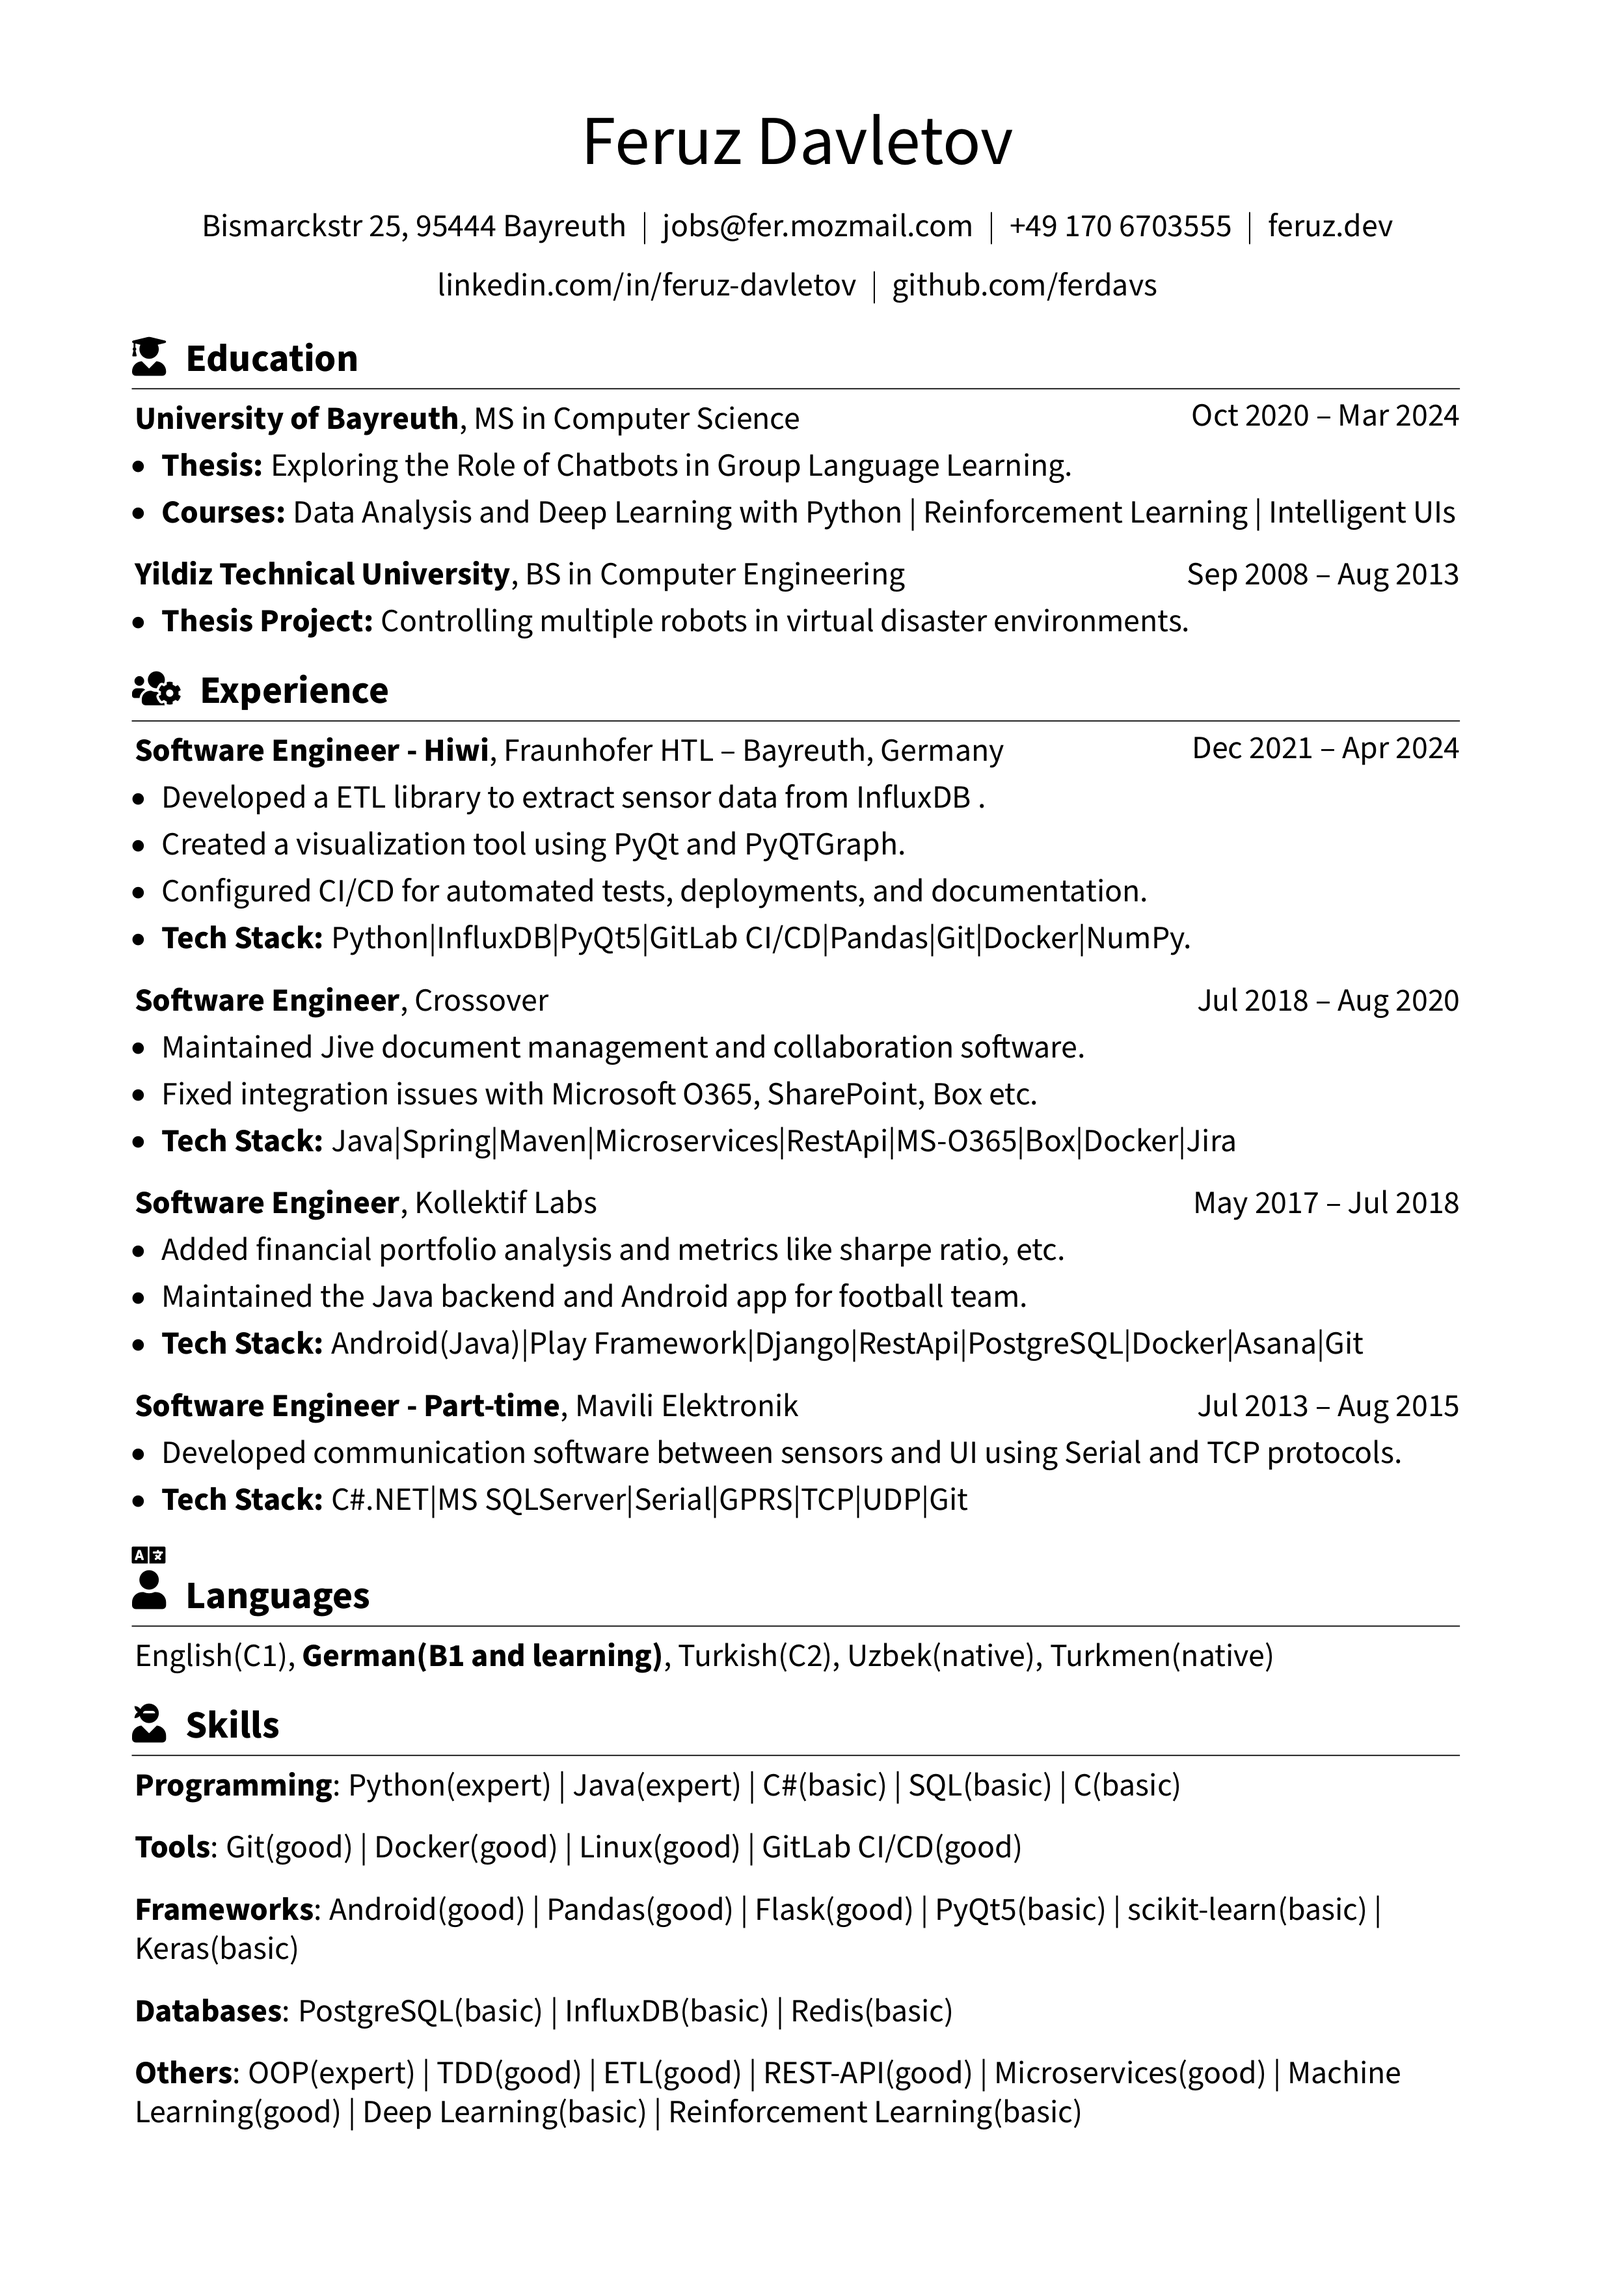
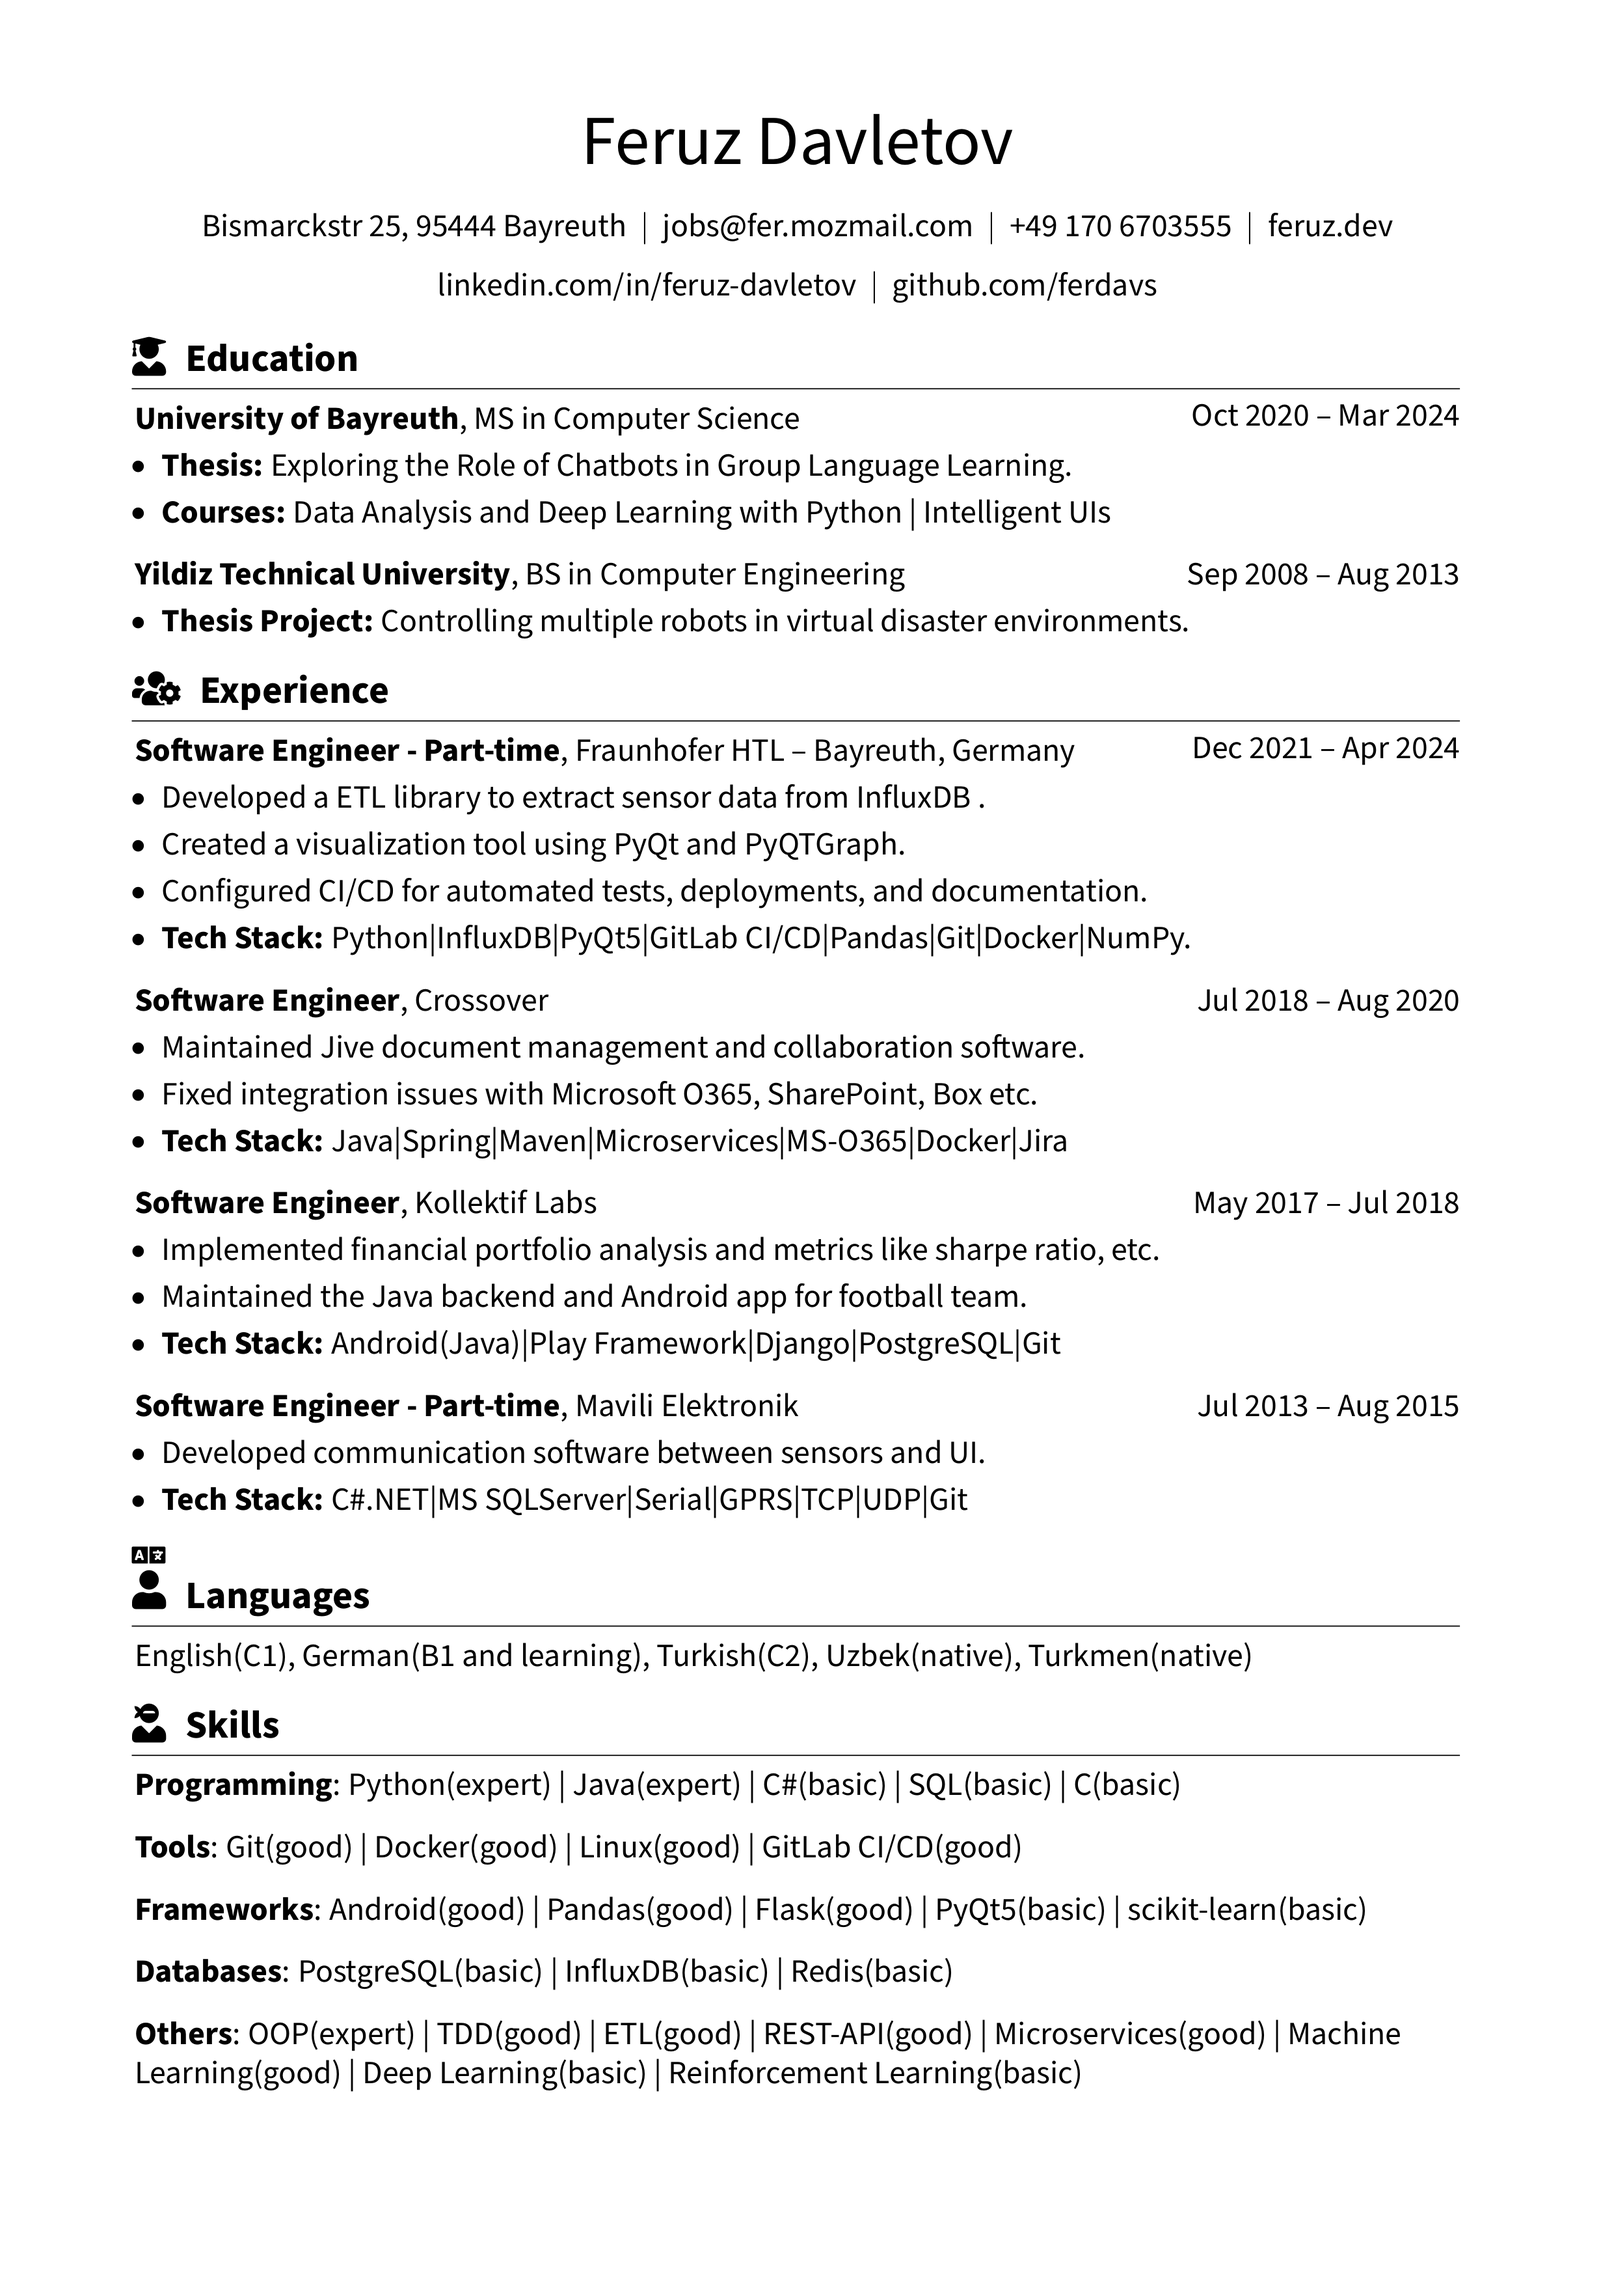
cv: update readme

diff --git a/README.md b/README.md
@@ -12,20 +12,20 @@
 
 ## University of Bayreuth, MS in Computer Science
 
-- Oct 2020 -- Mar 2024
+- Oct 2020 – Mar 2024
 - **Thesis:** Exploring the Role of Chatbots in Group Language Learning.
-- **Courses:** Data Analysis and Deep Learning with Python | Reinforcement Learning | Intelligent UIs
+- **Courses:** Data Analysis and Deep Learning with Python | Intelligent UIs
 
 ## Yildiz Technical University, BS in Computer Engineering
 
-- Sep 2008 -- Aug 2013
+- Sep 2008 – Aug 2013
 - **Thesis Project:** Controlling multiple robots in virtual disaster environments.
 
 # \faUsersCog\enspace  Experience
 
-## Fraunhofer HTL, Software Engineer - Hiwi
+## Fraunhofer HTL, Software Engineer - Part-time
 
-- Dec 2021 -- Apr 2024
+- Dec 2021 – Apr 2024
 - Bayreuth, Germany
 - Developed a ETL library to extract sensor data from InfluxDB .
 - Created a visualization tool using PyQt and PyQTGraph.
@@ -34,27 +34,27 @@
 
 ## Crossover, Software Engineer
 
-- Jul 2018 -- Aug 2020
+- Jul 2018 – Aug 2020
 - Maintained Jive document management and collaboration software.
 - Fixed integration issues with Microsoft O365, SharePoint, Box etc.
-- **Tech Stack:** Java|Spring|Maven|Microservices|RestApi|MS-O365|Box|Docker|Jira
+- **Tech Stack:** Java|Spring|Maven|Microservices|MS-O365|Docker|Jira
 
 ## Kollektif Labs, Software Engineer
 
-- May 2017 -- Jul 2018
-- Added financial portfolio analysis and metrics like sharpe ratio, etc.
+- May 2017 – Jul 2018
+- Implemented financial portfolio analysis and metrics like sharpe ratio, etc.
 - Maintained the Java backend and Android app for football team.
-- **Tech Stack:** Android(Java)|Play Framework|Django|RestApi|PostgreSQL|Docker|Asana|Git
+- **Tech Stack:** Android(Java)|Play Framework|Django|PostgreSQL|Git
 
 ## Mavili Elektronik, Software Engineer - Part-time
 
-- Jul 2013 -- Aug 2015
-- Developed communication software between sensors and UI using Serial and TCP protocols.
+- Jul 2013 – Aug 2015
+- Developed communication software between sensors and UI.
 - **Tech Stack:** C#.NET|MS SQLServer|Serial|GPRS|TCP|UDP|Git
 
 # $\overset{\text{\faLanguage}}{\text{\raisebox{0.1em}{\faUser}}}$\enspace Languages
 
-English(C1), **German(B1 and learning)**, Turkish(C2), Uzbek(native), Turkmen(native)
+English(C1), German(B1 and learning), Turkish(C2), Uzbek(native), Turkmen(native)
 
 # \faUserNinja\enspace Skills
 
@@ -62,32 +62,32 @@ English(C1), **German(B1 and learning)**, Turkish(C2), Uzbek(native), Turkmen(na
 
 **Tools**: Git(good) | Docker(good) | Linux(good) | GitLab CI/CD(good)
 
-**Frameworks**: Android(good) | Pandas(good) | Flask(good) | PyQt5(basic) | scikit-learn(basic) | Keras(basic)
+**Frameworks**: Android(good) | Pandas(good) | Flask(good) | PyQt5(basic) | scikit-learn(basic)
 
 **Databases**: PostgreSQL(basic) | InfluxDB(basic) | Redis(basic)
 
 **Others**: OOP(expert) | TDD(good) | ETL(good) | REST-API(good) | Microservices(good) | Machine Learning(good) | Deep Learning(basic) | Reinforcement Learning(basic)
 
-# \faUserCog\enspace  Projects
+# \faUserCog\enspace Last Projects
 
 ## Energy Usage Prediction of Household Devices with Energy Meters
 
 - Sep 2023
 - Created system and software architecture for the project.
 - Developed a backend service to collect energy usage data from energy meters.
-- Developed an android app and a predictive model to visualize energy usage and predictions.
+- Developed an android app and a predictive model to visualize energy usage.
 - **Tech Stack:** Android(Java)|Python|PostgreSQL|NumPy|Pandas|Tuya energy meters
 
 ## Walking and Running route suggestion app based on user preferences
 
 - Mar 2023
-- Implemented google-maps like navigation with voice using OpenStreetMap for the routes.
+- Implemented google-maps like navigation with voice using OpenStreetMap.
 - **Tech Stack:** Android(Java)|OSRM|Azure Neural TTS
 
 ## Matrix Multiplication Energy Consumption on Intel and AMD CPUs
 
 - Jun 2022
-- Investigated energy consumption of matrix multiplication algorithms in x86 architectures.
+- Investigated energy consumption of matrix multiplication algorithms in x86.
 - **Tech Stack:** C|Python|NumPy|Pandas|Linux|likwid library
 
 # \faUserEdit\enspace Publications
